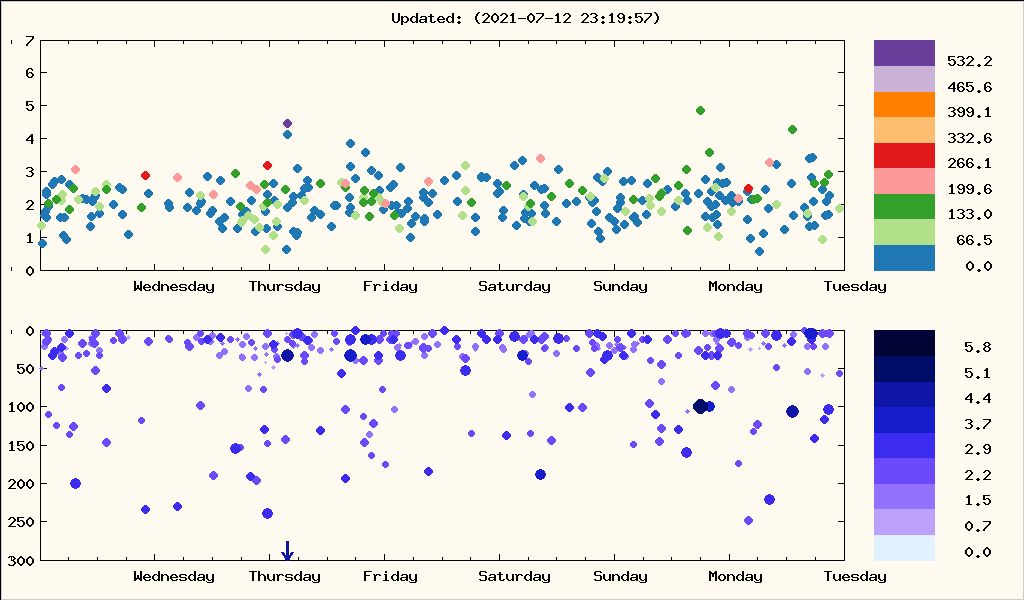
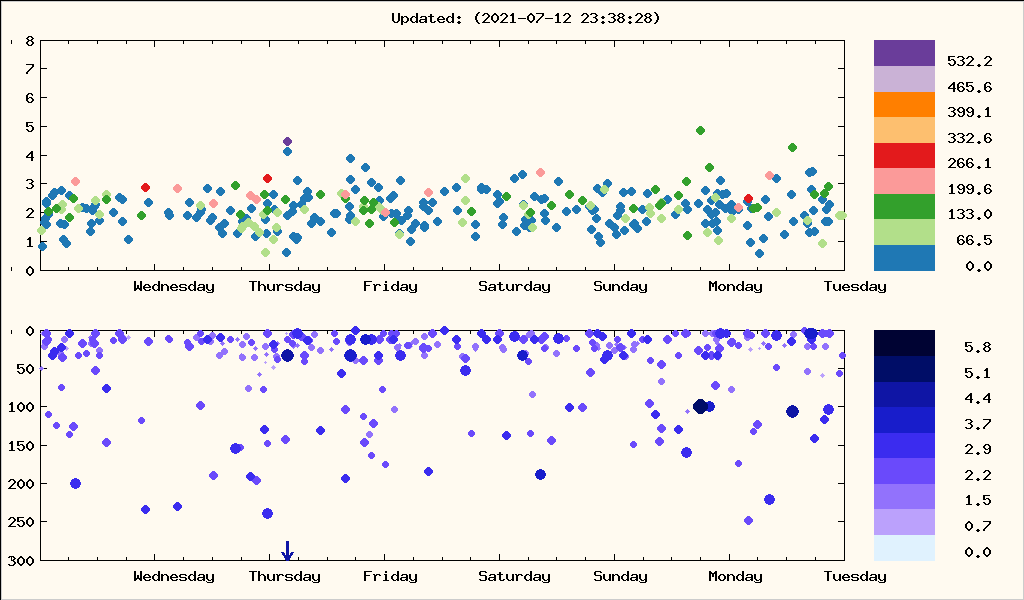
Quarter hourly

Changed region(s): [[0.0312, 0.24, 0.8438, 0.42], [0.25, 0.21, 0.2812, 0.24]]

diff --git a/x-image.html b/x-image.html
@@ -38,9 +38,9 @@ td.border { border: 1px #330000 dashed; }
 <center>[ &lt;<a href="index.html" title="Main">Main</a>&gt; | &lt;<a href="image.html" title="Here">Re-load</a>&gt; | &lt;<a href="/cgi-bin/geonet/site-map.cgi" title="Site map">Index</a>&gt; ]</center>
 <dl><dt>All images on this page are in 2 parts:</dt> <dd>The upper part displays magnitude, coloured by depth.</dd> <dd>The lower part displays depth, coloured by magnitude.</dd></dl>
 <table summary="">
-<tr><td class="border"><table summary=""><tr><th align="left">Period</th> <td>:</td> <td>1 week</td></tr> <tr><td>Creation date</td> <td>:</td> <td>2021-07-12 23:19:58</td></tr></table> <a href="x-depth-magnitude-multiplot_week_0001.png" title="1 week" target="_blank"><img src="x-depth-magnitude-multiplot_week_0001.png" alt="1 week" title="1 week" /></a></td></tr>
-<tr><td class="border"><table summary=""><tr><th align="left">Period</th> <td>:</td> <td>2 weeks</td></tr> <tr><td>Creation date</td> <td>:</td> <td>2021-07-12 23:19:58</td></tr></table> <a href="x-depth-magnitude-multiplot_week_0002.png" title="2 weeks" target="_blank"><img src="x-depth-magnitude-multiplot_week_0002.png" alt="2 weeks" title="2 weeks" /></a></td></tr>
-<tr><td class="border"><table summary=""><tr><th align="left">Period</th> <td>:</td> <td>4 weeks</td></tr> <tr><td>Creation date</td> <td>:</td> <td>2021-07-12 23:19:58</td></tr></table> <a href="x-depth-magnitude-multiplot_week_0004.png" title="4 weeks" target="_blank"><img src="x-depth-magnitude-multiplot_week_0004.png" alt="4 weeks" title="4 weeks" /></a></td></tr>
+<tr><td class="border"><table summary=""><tr><th align="left">Period</th> <td>:</td> <td>1 week</td></tr> <tr><td>Creation date</td> <td>:</td> <td>2021-07-12 23:38:30</td></tr></table> <a href="x-depth-magnitude-multiplot_week_0001.png" title="1 week" target="_blank"><img src="x-depth-magnitude-multiplot_week_0001.png" alt="1 week" title="1 week" /></a></td></tr>
+<tr><td class="border"><table summary=""><tr><th align="left">Period</th> <td>:</td> <td>2 weeks</td></tr> <tr><td>Creation date</td> <td>:</td> <td>2021-07-12 23:38:30</td></tr></table> <a href="x-depth-magnitude-multiplot_week_0002.png" title="2 weeks" target="_blank"><img src="x-depth-magnitude-multiplot_week_0002.png" alt="2 weeks" title="2 weeks" /></a></td></tr>
+<tr><td class="border"><table summary=""><tr><th align="left">Period</th> <td>:</td> <td>4 weeks</td></tr> <tr><td>Creation date</td> <td>:</td> <td>2021-07-12 23:38:30</td></tr></table> <a href="x-depth-magnitude-multiplot_week_0004.png" title="4 weeks" target="_blank"><img src="x-depth-magnitude-multiplot_week_0004.png" alt="4 weeks" title="4 weeks" /></a></td></tr>
 <tr><td class="border"><table summary=""><tr><th align="left">Period</th> <td>:</td> <td>8 weeks</td></tr> <tr><td>Creation date</td> <td>:</td> <td>2021-07-12 23:17:02</td></tr></table> <a href="x-depth-magnitude-multiplot_week_0008.png" title="8 weeks" target="_blank"><img src="x-depth-magnitude-multiplot_week_0008.png" alt="8 weeks" title="8 weeks" /></a></td></tr>
 <tr><td class="border"><table summary=""><tr><th align="left">Period</th> <td>:</td> <td>16 weeks</td></tr> <tr><td>Creation date</td> <td>:</td> <td>2021-07-12 23:17:02</td></tr></table> <a href="x-depth-magnitude-multiplot_week_0016.png" title="16 weeks" target="_blank"><img src="x-depth-magnitude-multiplot_week_0016.png" alt="16 weeks" title="16 weeks" /></a></td></tr>
 <tr><td class="border"><table summary=""><tr><th align="left">Period</th> <td>:</td> <td>64 weeks</td></tr> <tr><td>Creation date</td> <td>:</td> <td>2021-07-12 23:17:02</td></tr></table> <a href="x-depth-magnitude-multiplot_week_0064.png" title="64 weeks" target="_blank"><img src="x-depth-magnitude-multiplot_week_0064.png" alt="64 weeks" title="64 weeks" /></a></td></tr>

diff --git a/image.html b/image.html
@@ -38,9 +38,9 @@ td.border { border: 1px #330000 dashed; }
 <center>[ &lt;<a href="index.html" title="Main">Main</a>&gt; | &lt;<a href="image.html" title="Here">Re-load</a>&gt; | &lt;<a href="/cgi-bin/geonet/site-map.cgi" title="Site map">Index</a>&gt; ]</center>
 <dl><dt>All images on this page are in 2 parts:</dt> <dd>The upper part displays magnitude, coloured by depth.</dd> <dd>The lower part displays depth, coloured by magnitude.</dd></dl>
 <table summary="">
-<tr><td class="border"><table summary=""><tr><th align="left">Period</th> <td>:</td> <td>1 week</td></tr> <tr><td>Creation date</td> <td>:</td> <td>2021-07-12 23:19:58</td></tr></table> <a href="depth-magnitude-multiplot_week_0001.png" title="1 week" target="_blank"><img src="depth-magnitude-multiplot_week_0001.png" alt="1 week" title="1 week" /></a></td></tr>
-<tr><td class="border"><table summary=""><tr><th align="left">Period</th> <td>:</td> <td>2 weeks</td></tr> <tr><td>Creation date</td> <td>:</td> <td>2021-07-12 23:19:58</td></tr></table> <a href="depth-magnitude-multiplot_week_0002.png" title="2 weeks" target="_blank"><img src="depth-magnitude-multiplot_week_0002.png" alt="2 weeks" title="2 weeks" /></a></td></tr>
-<tr><td class="border"><table summary=""><tr><th align="left">Period</th> <td>:</td> <td>4 weeks</td></tr> <tr><td>Creation date</td> <td>:</td> <td>2021-07-12 23:19:58</td></tr></table> <a href="depth-magnitude-multiplot_week_0004.png" title="4 weeks" target="_blank"><img src="depth-magnitude-multiplot_week_0004.png" alt="4 weeks" title="4 weeks" /></a></td></tr>
+<tr><td class="border"><table summary=""><tr><th align="left">Period</th> <td>:</td> <td>1 week</td></tr> <tr><td>Creation date</td> <td>:</td> <td>2021-07-12 23:38:30</td></tr></table> <a href="depth-magnitude-multiplot_week_0001.png" title="1 week" target="_blank"><img src="depth-magnitude-multiplot_week_0001.png" alt="1 week" title="1 week" /></a></td></tr>
+<tr><td class="border"><table summary=""><tr><th align="left">Period</th> <td>:</td> <td>2 weeks</td></tr> <tr><td>Creation date</td> <td>:</td> <td>2021-07-12 23:38:30</td></tr></table> <a href="depth-magnitude-multiplot_week_0002.png" title="2 weeks" target="_blank"><img src="depth-magnitude-multiplot_week_0002.png" alt="2 weeks" title="2 weeks" /></a></td></tr>
+<tr><td class="border"><table summary=""><tr><th align="left">Period</th> <td>:</td> <td>4 weeks</td></tr> <tr><td>Creation date</td> <td>:</td> <td>2021-07-12 23:38:30</td></tr></table> <a href="depth-magnitude-multiplot_week_0004.png" title="4 weeks" target="_blank"><img src="depth-magnitude-multiplot_week_0004.png" alt="4 weeks" title="4 weeks" /></a></td></tr>
 <tr><td class="border"><table summary=""><tr><th align="left">Period</th> <td>:</td> <td>8 weeks</td></tr> <tr><td>Creation date</td> <td>:</td> <td>2021-07-12 23:17:02</td></tr></table> <a href="depth-magnitude-multiplot_week_0008.png" title="8 weeks" target="_blank"><img src="depth-magnitude-multiplot_week_0008.png" alt="8 weeks" title="8 weeks" /></a></td></tr>
 <tr><td class="border"><table summary=""><tr><th align="left">Period</th> <td>:</td> <td>16 weeks</td></tr> <tr><td>Creation date</td> <td>:</td> <td>2021-07-12 23:17:02</td></tr></table> <a href="depth-magnitude-multiplot_week_0016.png" title="16 weeks" target="_blank"><img src="depth-magnitude-multiplot_week_0016.png" alt="16 weeks" title="16 weeks" /></a></td></tr>
 <tr><td class="border"><table summary=""><tr><th align="left">Period</th> <td>:</td> <td>64 weeks</td></tr> <tr><td>Creation date</td> <td>:</td> <td>2021-07-12 23:17:02</td></tr></table> <a href="depth-magnitude-multiplot_week_0064.png" title="64 weeks" target="_blank"><img src="depth-magnitude-multiplot_week_0064.png" alt="64 weeks" title="64 weeks" /></a></td></tr>

diff --git a/index.html b/index.html
@@ -65,12 +65,20 @@ td.depth { text-align: right; }
 </tr>
 <tr>
 	 <td align="left">&nbsp;</td> 
-	 <td align="left">11:19:57 pm</td> 
-	 <td align="right">10:41</td> 
+	 <td align="left">11:38:28 pm</td> 
+	 <td align="right">2:58</td> 
 	 <td colspan="3">&nbsp;</td> 
 </tr>
 <tr>
 	 <td align="left">2021-07-12</td> 
+	 <td align="left">11:35:30 pm</td> 
+	 <td align="right">26:14</td> 
+	 <td class="magnitude04">1.90</td> 
+	 <td class="depth">33.59</td> 
+	 <td align="right"><a href="http://www.geonet.org.nz/quakes/region/newzealand/2021p520224" title="2021p520224" target="_blank" class="publicid">30 km south-west of Wairoa</a></td> 
+</tr>
+<tr>
+	 <td align="left">&nbsp;</td> 
 	 <td align="left">11:09:16 pm</td> 
 	 <td align="right">2:06:49</td> 
 	 <td class="magnitude04">1.88</td> 
@@ -400,18 +408,10 @@ td.depth { text-align: right; }
 <tr>
 	 <td align="left">&nbsp;</td> 
 	 <td align="left">00:26:44 am</td> 
-	 <td align="right">1:04:40</td> 
+	 <td align="right">0</td> 
 	 <td class="magnitude05">2.28</td> 
 	 <td class="depth">16.19</td> 
 	 <td align="right"><a href="http://www.geonet.org.nz/quakes/region/newzealand/2021p517617" title="2021p517617" target="_blank" class="publicid">40 km east of Wairoa</a></td> 
-</tr>
-<tr>
-	 <td align="left">2021-07-11</td> 
-	 <td align="left">11:22:04 pm</td> 
-	 <td align="right">0</td> 
-	 <td class="magnitude06">2.68</td> 
-	 <td class="depth">5.00</td> 
-	 <td align="right"><a href="http://www.geonet.org.nz/quakes/region/newzealand/2021p517496" title="2021p517496" target="_blank" class="publicid">65 km north of Whakatane</a></td> 
 </tr>
 </table>
 
